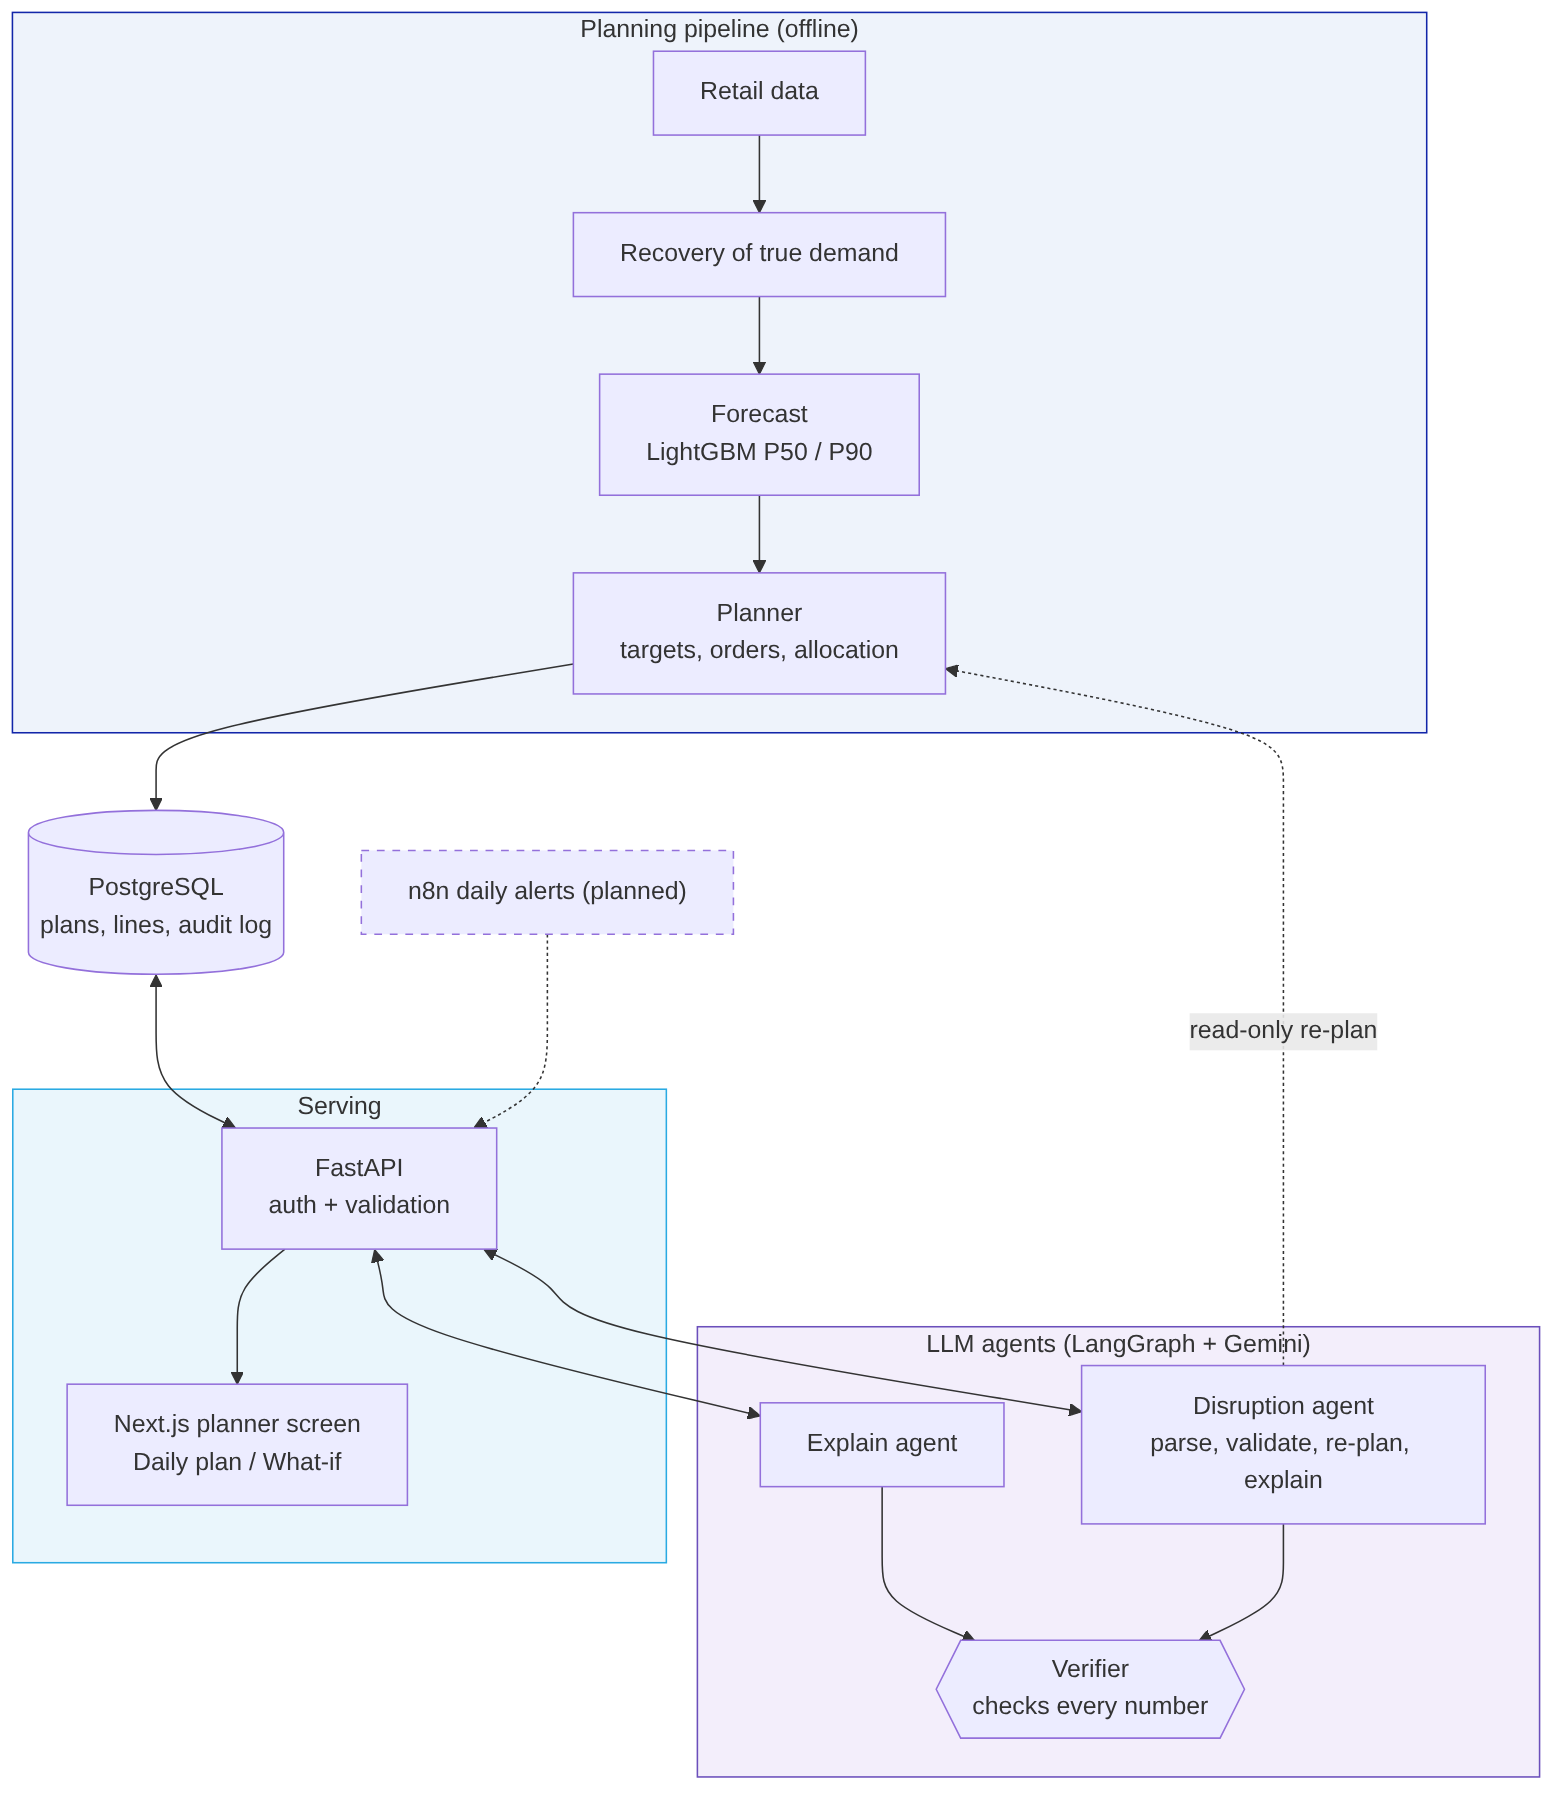
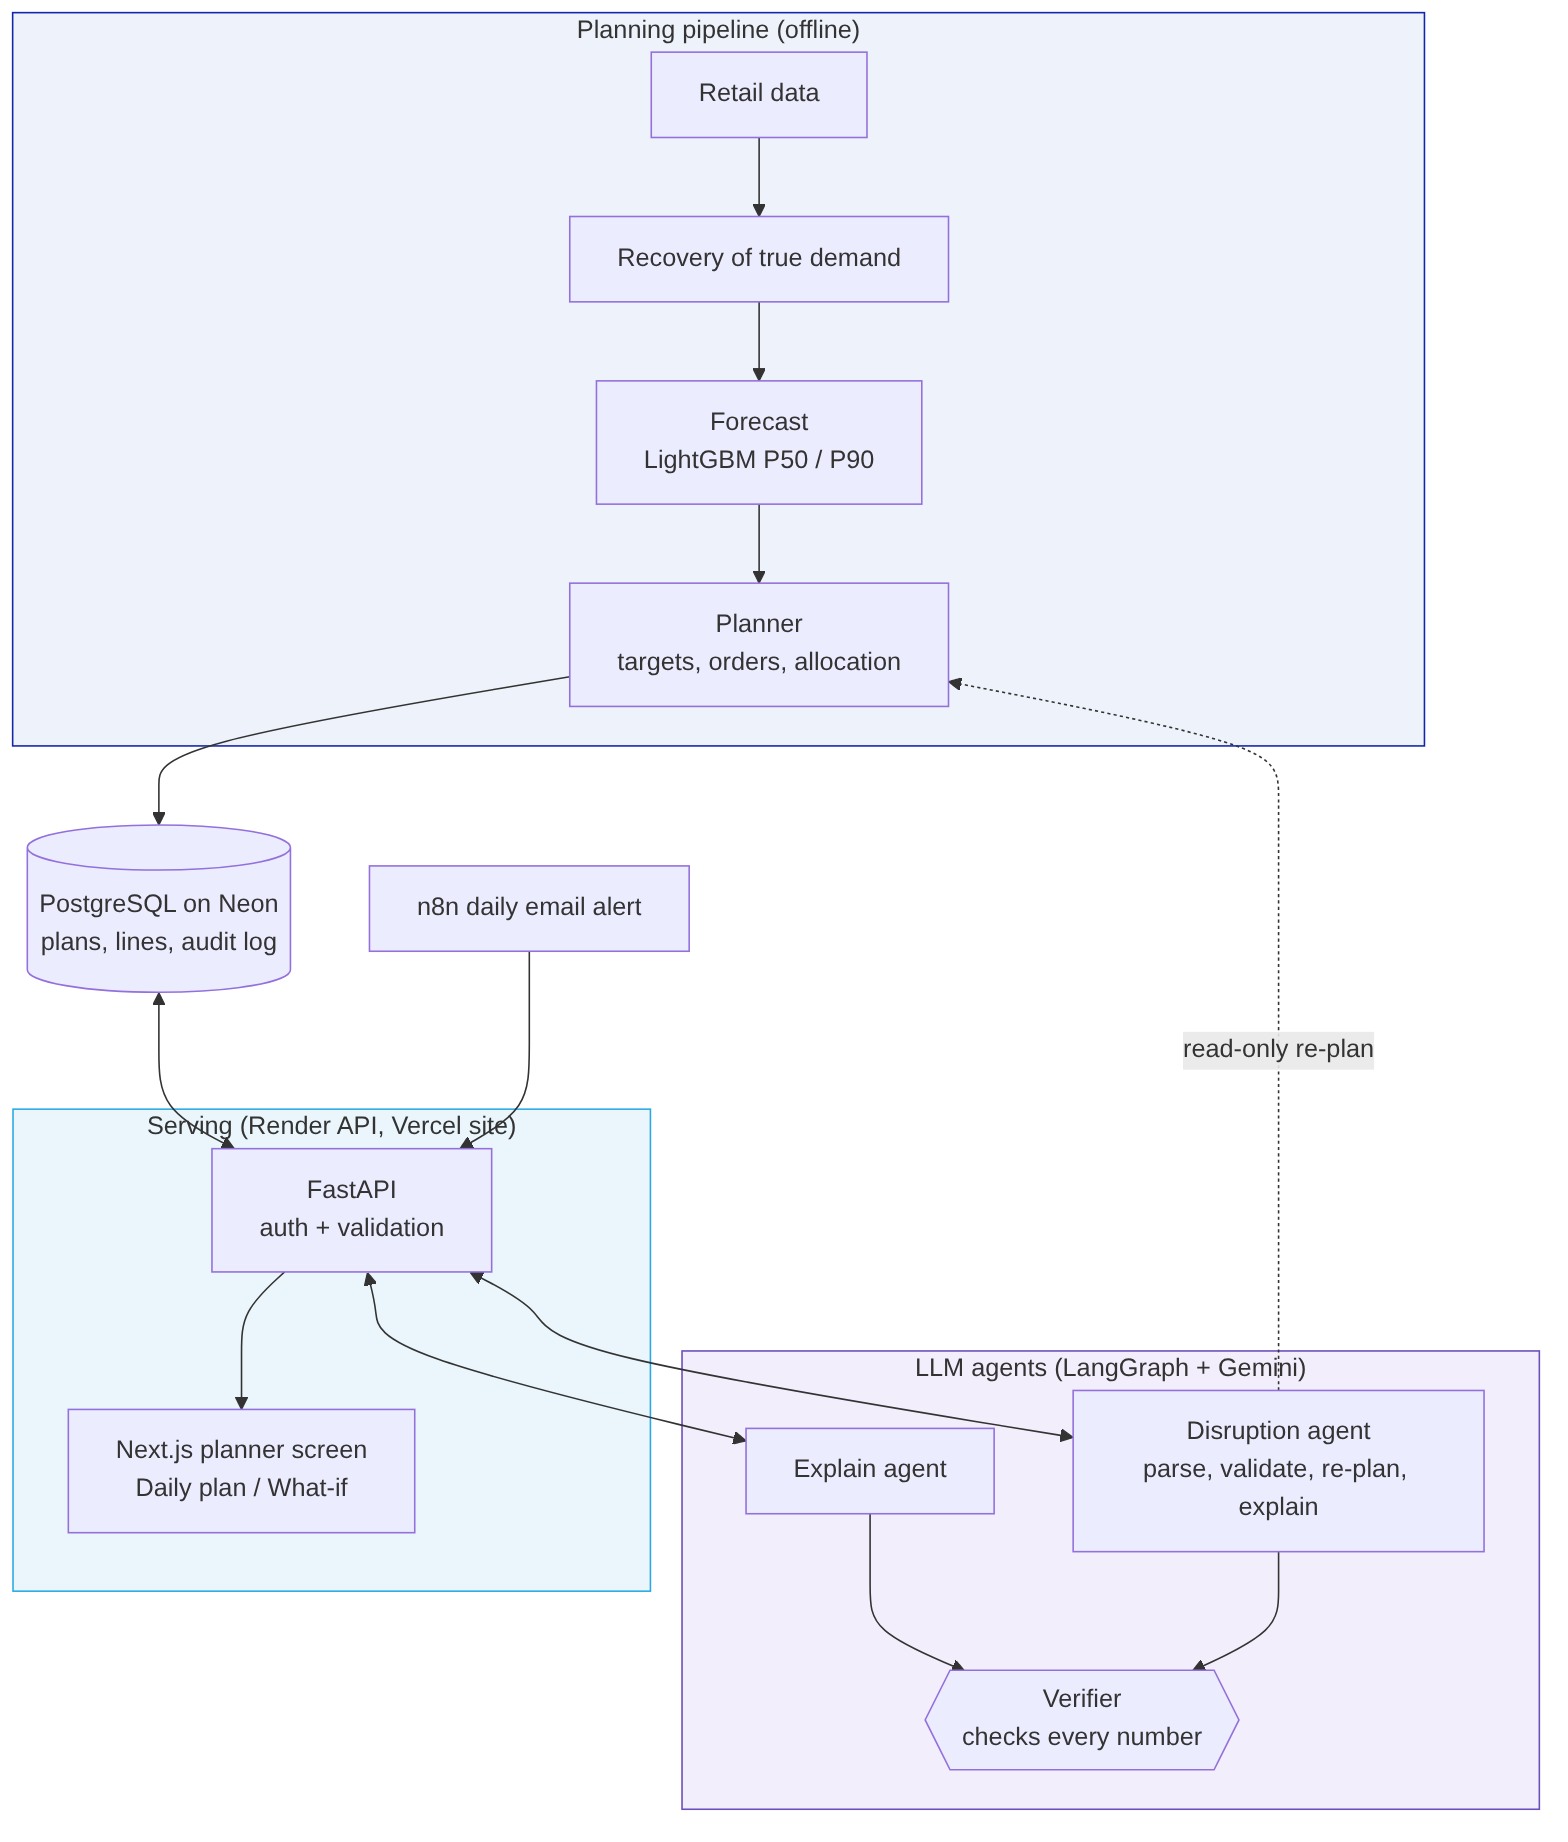
Add live links, deployment section and updated architecture diagram

diff --git a/README.md b/README.md
@@ -15,6 +15,13 @@ Perishables have a short shelf life, so planners face two opposite risks every d
 
 Stock also sits at several levels, so a shortage at one warehouse affects every store it serves. This project plans across the whole network and accounts for expiry.
 
+## Live demo
+
+- **Web app:** https://perishables-network-planner.vercel.app
+- **API and docs:** https://perishables-planner-api.onrender.com/docs
+
+The API runs on a free Render plan that sleeps after 15 minutes without traffic, so the first request can take about a minute to wake it. The data is a simulated example plan (28 June 2024).
+
 ## What it does
 
 | Component | What it does |
@@ -57,7 +64,7 @@ Data → Recovery → Forecast (LightGBM) → Planner → PostgreSQL
 
 ![System architecture](docs/architecture.png)
 
-Dashed boxes are planned, not built yet.
+The API and database run in the cloud (Render and Neon), and the web app runs on Vercel. A daily n8n workflow emails a verified risk alert.
 
 ## Project structure
 
@@ -103,6 +110,17 @@ web/         Next.js frontend
 - Holding, wastage and lost-sales costs
 
 The demand is real retail data. The inventory network and replenishment operations are simulated, so the results show how the policy performs on realistic demand, not in a live supply chain.
+
+## Deployment
+
+| Part | Where it runs |
+|---|---|
+| Database | Neon (PostgreSQL) |
+| API | Render, built from the `Dockerfile` using `requirements-api.txt` |
+| Web app | Vercel, with `web` as the root directory |
+| Daily alert | n8n Cloud workflow (`n8n/Perishables_Daily_Risk_Alert.json`), see `docs/daily_risk_alert_workflow.md` |
+
+Settings are read from environment variables: `DATABASE_URL`, `JWT_SECRET`, `GEMINI_API_KEY` and `CORS_ORIGINS` on the API, and `NEXT_PUBLIC_API_URL` on the web app. Secrets are never committed.
 
 ## Getting started
 
@@ -195,8 +213,8 @@ python -m evaluation.run_eval --summary
 - [x] Explain agent with verifier
 - [x] Disruption (What-if) agent
 - [x] Next.js frontend
-- [ ] n8n daily alert workflow
-- [ ] Cloud deployment (API, frontend, database)
+- [x] n8n daily alert workflow (built and tested; the scheduled run is not switched on yet)
+- [x] Cloud deployment (Render, Vercel, Neon)
 - [ ] Final report and user manual
 
 ## Limitations
